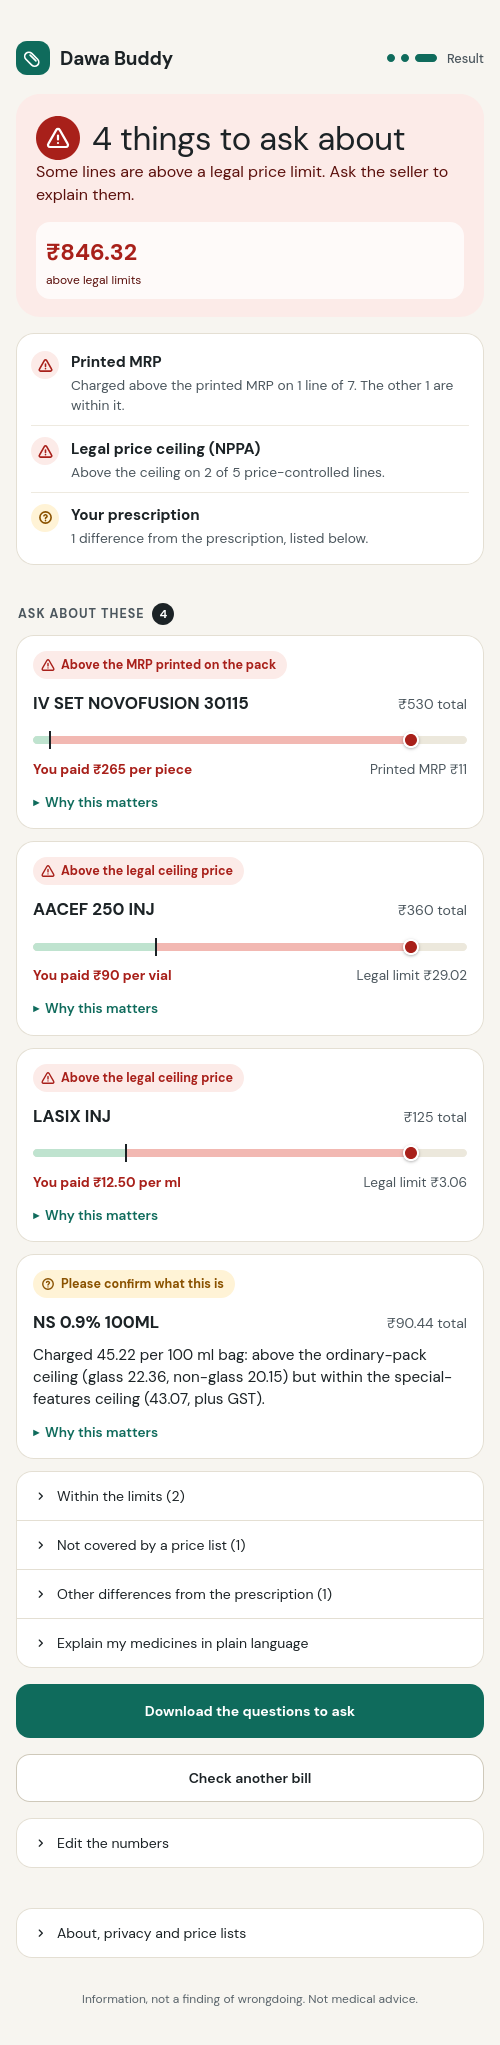
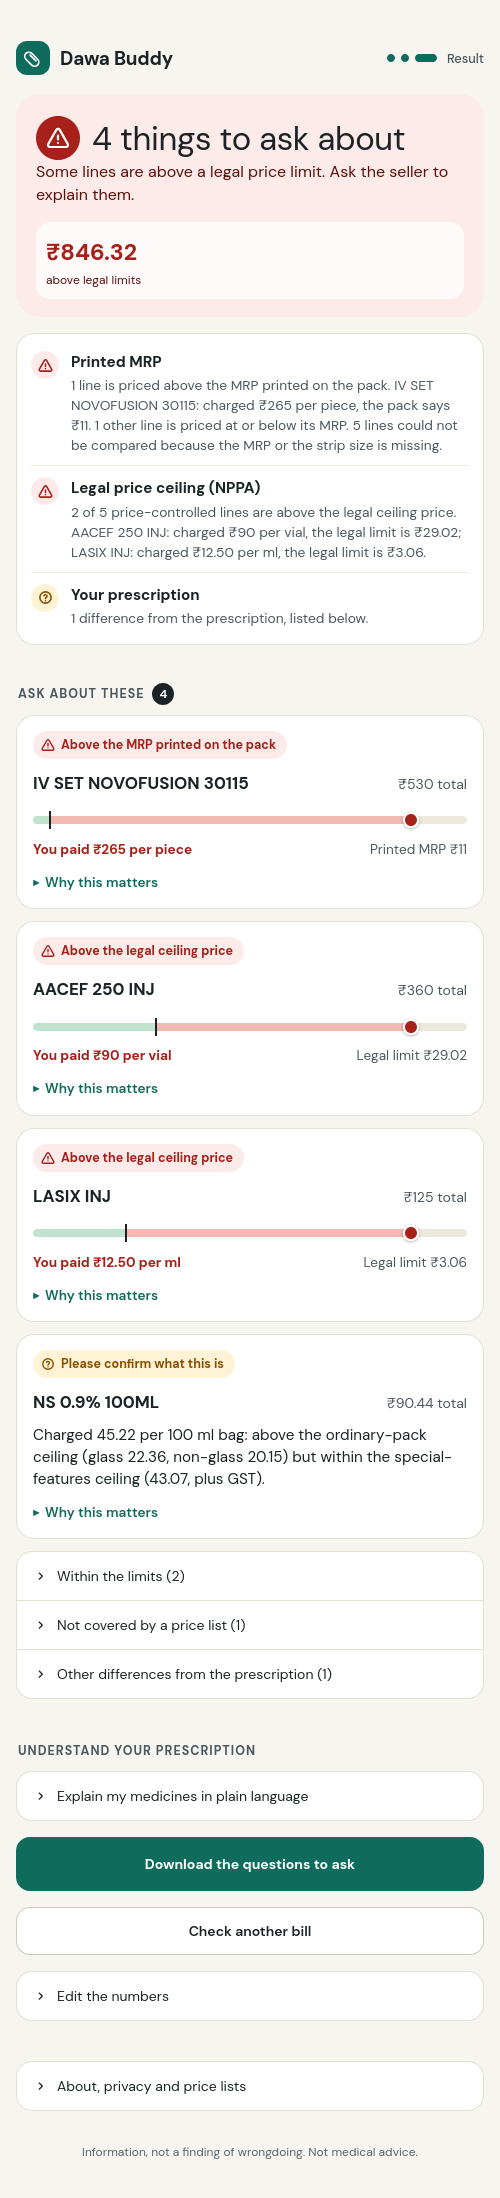
What we checked: name the line and both prices in plain words

diff --git a/tests/test_app.py b/tests/test_app.py
@@ -166,7 +166,7 @@ def test_one_button_fills_pack_sizes_and_checks_the_mrp_against_pharmacy_listing
     assert at.session_state["df"].loc[0, "pack"] == 10                                              # filled in as a suggestion
     assert at.session_state["pack_guess"]["CONCOR T 5MG TAB"][0] == 10 and "pharmacy websites" in at.session_state["pack_guess"]["CONCOR T 5MG TAB"][1]
     assert "consistent with this bill" in " ".join(c.value for c in at.caption)                       # printed 174.75 per 10 = listed
-    assert "Charged at or below the printed MRP on all 1 line" in html_blocks(at)             # the MRP check is now possible, and the page says what it checked
+    assert "This line is priced at or below the MRP printed on the pack" in html_blocks(at)             # the MRP check is now possible, and the page says what it checked
 
 
 def test_a_bill_without_mrp_charging_above_the_listed_mrp_gets_a_question_not_a_violation(monkeypatch):
@@ -351,7 +351,7 @@ REAL4 = [("SHELCAL 500MG TAB", 30, 9.81, 15, 163.45), ("VELTAM 0.4MG TAB", 15, 1
 def test_a_clean_bill_reads_as_protection_not_as_zeros(monkeypatch):
     """No tiles that say 0: tiles appear only when there is news. The page lists what was checked and found fine, and says when a check does not apply."""
     page = re.sub(r"<style>.*?</style>", "", html_blocks(_bill_app(monkeypatch, REAL4)), flags=re.S)          # what the user sees, not the stylesheet
-    assert "Charged at or below the printed MRP on all 3 lines" in page and "Selling above the printed MRP is not allowed" in page
+    assert "All 3 lines are priced at or below the MRP printed on the pack" in page and "Selling above the printed MRP is not allowed" in page
     assert "Not applicable: none of these has a government ceiling" in page           # a neutral grey row, not an alarming 0%
     assert "₹0" not in page and not re.search(r"(?<!\d)0%", page) and "possible saving" not in page    # no zero tiles, no 0%, no empty generic saving
     assert 'class="db-stats"' not in page and 'class="db-check"' in page
@@ -389,9 +389,10 @@ def test_the_mrp_row_reads_correctly_with_one_other_line_and_lines_that_could_no
     at = AppTest.from_file(str(ROOT / "bill_app.py"), default_timeout=60)
     at.run(); click(at, "Hospital pharmacy bill")
     page = html_blocks(at)
-    assert "Charged above the printed MRP on 1 line of 7. 1 other line is within it. 5 had no MRP or pack size to compare." in page
+    assert ("1 line is priced above the MRP printed on the pack. IV SET NOVOFUSION 30115: charged ₹265 per piece, the pack says ₹11. "
+            "1 other line is priced at or below its MRP. 5 lines could not be compared because the MRP or the strip size is missing.") in page
     ok = html_blocks(_bill_app(monkeypatch, [("SHELCAL 500MG TAB", 30, 9.81, 15, 163.45), ("DOLO 650 TAB", 10, 2.1, None, None)]))
-    assert "Charged at or below the printed MRP on 1 line of 2" in ok and "1 had no MRP or pack size to compare" in ok
+    assert "1 of 2 lines are priced at or below the MRP printed on the pack" in ok and "1 line could not be compared because the MRP or the strip size is missing" in ok
 
 
 def _fake_web(monkeypatch):
@@ -702,3 +703,13 @@ def test_results_lookup_callout_names_the_medicines_it_will_look_up(monkeypatch)
     at = _bill_app(monkeypatch, [("SHELCAL 500MG TAB", 30, 9.81, None, 163.45), ("CONCOR T 5MG TAB", 30, 15.73, None, 174.75)])
     page = html_blocks(at)
     assert "Strip size and listed price" in page and "SHELCAL 500MG TAB, CONCOR T 5MG TAB" in page
+
+
+def test_the_check_rows_name_the_line_and_both_prices_in_plain_words(monkeypatch):
+    at = AppTest.from_file(str(ROOT / "bill_app.py"), default_timeout=60)
+    monkeypatch.setenv("DAWA_PROVIDER", "offline")
+    at.run(); click(at, "Hospital pharmacy bill")
+    page = html_blocks(at)
+    assert "AACEF 250 INJ: charged ₹90 per vial, the legal limit is ₹29.02" in page             # which line, what was charged, what the limit is
+    assert "2 of 5 price-controlled lines are above the legal ceiling price." in page
+    assert "Charged above the printed MRP on" not in page and "other line is within it" not in page    # the old, hard-to-read wording is gone

diff --git a/bill_app.py b/bill_app.py
@@ -397,26 +397,31 @@ def check_rows(fs, flags, wrong, unidentified, generic) -> list[tuple[str, str, 
     """'What we checked': what was verified and found fine, what was not and why. Each row says what was done, so a clean bill reads as protection."""
     n = len(fs)
     plural = lambda k, word: f"{k} {word}{'' if k == 1 else 's'}"
-    over = sum(f.tier == b.TIER_ABOVE_MRP for f in fs)
+    over_fs = [f for f in fs if f.tier == b.TIER_ABOVE_MRP]
+    over = len(over_fs)
     known = sum(f.mrp_pct is not None or f.tier == b.TIER_ABOVE_MRP for f in fs)
     ok = known - over
+    rest = n - known
+    gap = f"{plural(rest, 'line')} could not be compared because the MRP or the strip size is missing." if rest else ""
+    named = lambda items: "; ".join(items[:3]) + (f"; and {len(items) - 3} more" if len(items) > 3 else "")
     rows = []
-    if over:
-        rest = n - over - ok
-        rows.append(("red", "Printed MRP", f"Charged above the printed MRP on {plural(over, 'line')} of {n}."
-                     + (f" {plural(ok, 'other line')} {'is' if ok == 1 else 'are'} within it." if ok else "")
-                     + (f" {rest} had no MRP or pack size to compare." if rest else "")))
+    if over:     # name the line and both prices, so the reader can see what is wrong without opening anything
+        what = named([f"{f.line.desc}: charged {rupees(f.line.rate)} per {billed_word(f.line.unit)}, the pack says {rupees(f.mrp_unit)}" for f in over_fs])
+        rows.append(("red", "Printed MRP", f"{plural(over, 'line')} {'is' if over == 1 else 'are'} priced above the MRP printed on the pack. {what}."
+                     + (f" {plural(ok, 'other line')} {'is' if ok == 1 else 'are'} priced at or below {'its' if ok == 1 else 'their'} MRP." if ok else "")
+                     + (f" {gap}" if gap else "")))
     elif ok:
-        rows.append(("green", "Printed MRP", f"Charged at or below the printed MRP on {'all ' + plural(n, 'line') if ok == n else plural(ok, 'line') + ' of ' + str(n)}. "
-                     "Selling above the printed MRP is not allowed for any product." + (f" {n - ok} had no MRP or pack size to compare." if ok < n else "")))
+        rows.append(("green", "Printed MRP", ("All " + plural(n, "line") + " are" if ok == n and n > 1 else "This line is" if ok == n else f"{ok} of {n} lines are")
+                     + " priced at or below the MRP printed on the pack. Selling above the printed MRP is not allowed for any product." + (f" {gap}" if gap else "")))
     else:
         rows.append(("grey", "Printed MRP", "Could not be compared: add the MRP printed on the pack and the tablets per strip (Edit the numbers)."))
     capped = [f for f in fs if f.ceiling is not None]
-    above = sum(f.tier == b.TIER_ABOVE_CEILING for f in fs)
-    if above:
-        rows.append(("red", "Legal price ceiling (NPPA)", f"Above the ceiling on {above} of {plural(len(capped), 'price-controlled line')}."))
+    above_fs = [f for f in fs if f.tier == b.TIER_ABOVE_CEILING]
+    if above_fs:
+        what = named([f"{f.line.desc}: charged {rupees(f.unit_price)} per {PER.get(f.basis, 'unit')}, the legal limit is {rupees(f.ceiling)}" for f in above_fs])
+        rows.append(("red", "Legal price ceiling (NPPA)", f"{len(above_fs)} of {plural(len(capped), 'price-controlled line')} {'is' if len(above_fs) == 1 else 'are'} above the legal ceiling price. {what}."))
     elif capped:
-        rows.append(("green", "Legal price ceiling (NPPA)", f"Within the ceiling on {'the' if len(capped) == 1 else 'all ' + str(len(capped))} price-controlled {'line' if len(capped) == 1 else 'lines'}."))
+        rows.append(("green", "Legal price ceiling (NPPA)", ("The price-controlled line is" if len(capped) == 1 else f"All {len(capped)} price-controlled lines are") + " within the legal ceiling price."))
     else:
         rows.append(("grey", "Legal price ceiling (NPPA)", "Not applicable: none of these has a government ceiling. That is normal, since most branded medicines are not price-controlled."))
     if not st.session_state.get("rx", "").strip():

diff --git a/README.md b/README.md
@@ -5,7 +5,7 @@
 **Photograph a pharmacy or hospital bill. Dawa Buddy checks it line by line against India's legal price lists and the doctor's prescription, then tells you exactly what to ask, in English, Hindi or Kannada.**
 
 ![licence: MIT](https://img.shields.io/badge/licence-MIT-green)
-![tests: 226 passing](https://img.shields.io/badge/tests-226%20passing-brightgreen)
+![tests: 227 passing](https://img.shields.io/badge/tests-227%20passing-brightgreen)
 ![Nebius Token Factory](https://img.shields.io/badge/runs%20on-Nebius%20Token%20Factory-1f6feb)
 ![NVIDIA Nemotron](https://img.shields.io/badge/models-NVIDIA%20Nemotron-76b900)
 ![Tavily](https://img.shields.io/badge/web%20evidence-Tavily-7b61ff)
@@ -30,7 +30,7 @@
 ### What a judge should know in one minute
 | Criterion | Short answer | Where to look |
 |---|---|---|
-| **Technological implementation** | Nemotron **Super VL** reads photos, **Lightning** reads prescriptions, **Ultra / Super** write Hindi, all through one Token Factory endpoint. A deterministic rules engine decides every price verdict, so the model can never invent an accusation. 226 tests; 4 evaluation suites. | [§7](#7-architecture), [§8](#8-how-we-use-nebius-nvidia-nemotron-and-tavily), [§10](#10-validation-and-evaluation) |
+| **Technological implementation** | Nemotron **Super VL** reads photos, **Lightning** reads prescriptions, **Ultra / Super** write Hindi, all through one Token Factory endpoint. A deterministic rules engine decides every price verdict, so the model can never invent an accusation. 227 tests; 4 evaluation suites. | [§7](#7-architecture), [§8](#8-how-we-use-nebius-nvidia-nemotron-and-tavily), [§10](#10-validation-and-evaluation) |
 | **Design** | One question per screen, verdict first, a "What we checked" list so a clean bill reads as protection, phone-first, status always colour + icon + words, Hindi and Kannada typography. | [§5](#5-the-product-tour) |
 | **Potential impact** | The Indian government's own court affidavit says patients have "very low bargaining position" and "very limited" knowledge of prices. This tool puts the comparison in the patient's hands at the moment of paying. | [§2](#2-the-problem-with-evidence), [§4](#4-the-idea) |
 | **Quality of the idea** | A *receipt audit*, not a price lookup: it resolves each line to a medicine, strength and form, converts per-tablet, per-strip, per-vial, per-ml and per-piece prices correctly, and reconciles the bill with the prescription (including the wrong *variant* handed over). It is honest about what it cannot see. | [§4](#4-the-idea), [§9](#9-engineering-decisions-and-why) |
@@ -313,7 +313,7 @@ All numbers below are reproducible with the commands in [section 13](#13-setup-r
 ### 10.1 Results
 | Check | Result | Caveat |
 |---|---|---|
-| Unit and integration tests | **226 pass** | Includes fake-server tests for the Ollama and Tavily paths and a test that inspects what is sent to Tavily. |
+| Unit and integration tests | **227 pass** | Includes fake-server tests for the Ollama and Tavily paths and a test that inspects what is sent to Tavily. |
 | Brand resolution, 108 real brand lines | **99 correct, 4 missed (safe), 0 wrong.** The curated map alone: 26 correct, 61 missed, 2 wrong (1 reached a price verdict). 14 of 14 supplements, invented and ambiguous names handled safely. | Expected answers were written from pharmaceutical knowledge, **not** copied from the table. A pharmacist should review them. |
 | Bill tier accuracy, 18 synthetic lines (tablets, liquids, injections) | **18 of 18** | Synthetic prices written by the author. |
 | Prescription extraction, 24 synthetic cases | Offline rules F1 **1.00**, live Nemotron F1 **1.00**; safety-flag F1 1.00 / 1.00; 0 invented medicines; median latency 1.33 s | **Saturated**: the rules were tuned on this style of text, so it does not show the model's value. The real-photo comparison does. |
@@ -328,7 +328,7 @@ All numbers below are reproducible with the commands in [section 13](#13-setup-r
 
 ### 10.2 Reproduce
 ```bash
-pytest -q tests                                   # 226 tests
+pytest -q tests                                   # 227 tests
 python -m evals.run_bill_evals                    # 18 synthetic bill lines, tier accuracy
 python -m evals.run_brand_evals [--verbose]       # 108 brand lines: correct / missed / wrong
 python -m evals.run_evals --out evals/results.md  # 24 synthetic prescriptions, live model
@@ -362,6 +362,7 @@ Synthetic tests passed long before real documents did. These are the failures re
 | Three parts of the result disagreed about which medicines needed confirming: the *Help us identify* list included Veltam (identified as tamsulosin, merely not price-listed) while the alert cards and the checklist row did not; and the checklist row was missing for AI-guessed medicines like Concor T. | One rule, `needs_identifying()`, decides it for all three: an AI or brand-table guess awaiting confirmation, or a line that matched nothing. A test checks the checklist row and the identify list name exactly the same medicines. |
 | After every ingredient was confirmed the section still read "Help us identify (1)", which says an action is pending. | The badge counts only what is still pending. When nothing is, the header becomes "Medicines you confirmed (N)" with "Nothing more to do here"; the answers stay listed so they can be reviewed or changed (a typo must not be permanent). |
 | On the review screen, *Fix a number* applied edits live (an accidental keystroke changed the bill), *Remove this line* could not be undone, quantity, price **and** total were all editable (so they could disagree), *Add a line* had no clear confirm and an unstyled button, and a missing strip size (needed to check a per-strip MRP) was easy to overlook: Veltam came pre-filled from the brand table but Shelcal and Concor T did not. | Edits are staged in a form with **Save changes**; the total is computed; removed lines go to *Removed lines* with **Put back**; *Add this line* is a validated form with a primary button; an amber note and a per-card flag name every missing strip size, with **Find strip sizes online** beside them; the results-page look-up now says which medicines it covers and why. |
+| The MRP row of *What we checked* read "Charged above the printed MRP on 1 line of 4. 3 other lines are within it.": correct but unreadable, with no line named and no amounts. | Each row now names the line and both prices: "1 line is priced above the MRP printed on the pack. IV SET NOVOFUSION 30115: charged ₹265 per piece, the pack says ₹11." The ceiling row does the same with the legal limit. |
 | The Supreme Court's headline example (a ₹11 consumable billed at ₹270) was caught only if the user chose a unit; consumables had no "per piece" option. | Added **per piece** with a direct MRP comparison, plus a test and the hospital sample line. Found by reading the court coverage against the app, on 28 October. |
 
 ## 11. How it meets the requirements
@@ -570,6 +571,6 @@ dawa_buddy/
 data/                       Price lists, brand table, overrides, NOTICE.md
 scripts/                    audit_bill, read_photos, check_nebius, NPPA PDF parsers, brand-table builder, review-pack builder
 evals/                      Gold sets and runners
-tests/                      226 tests
+tests/                      227 tests
 my_data/                    Your private bills and prescriptions (git-ignored)
 ```
